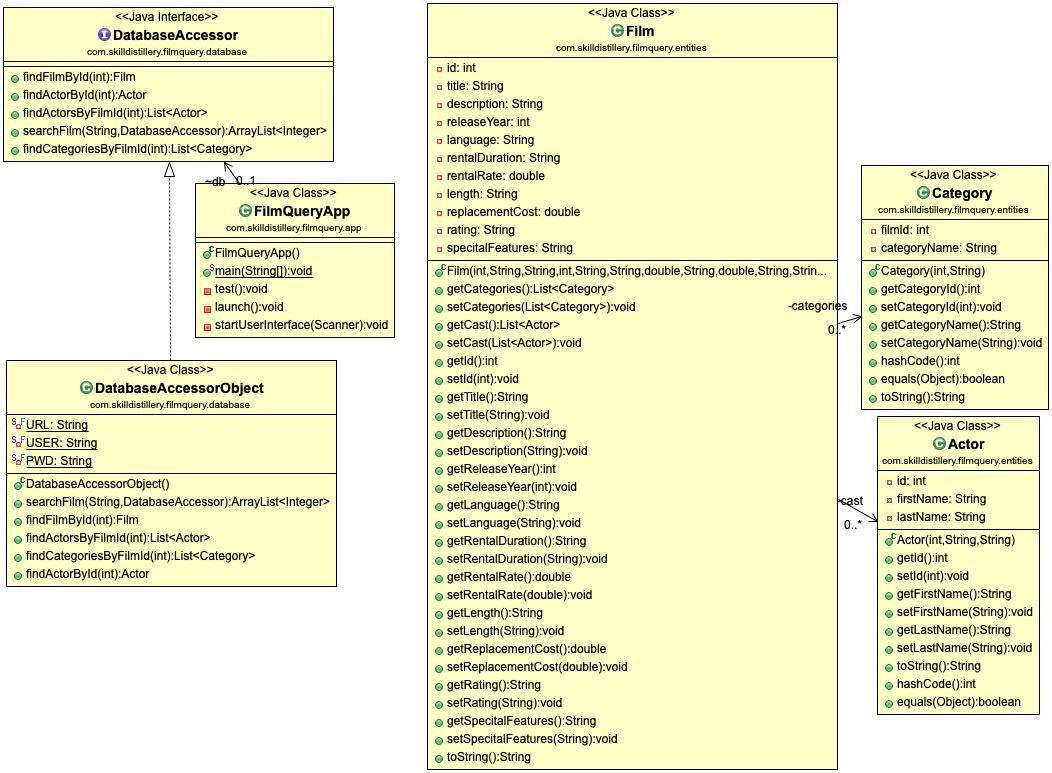
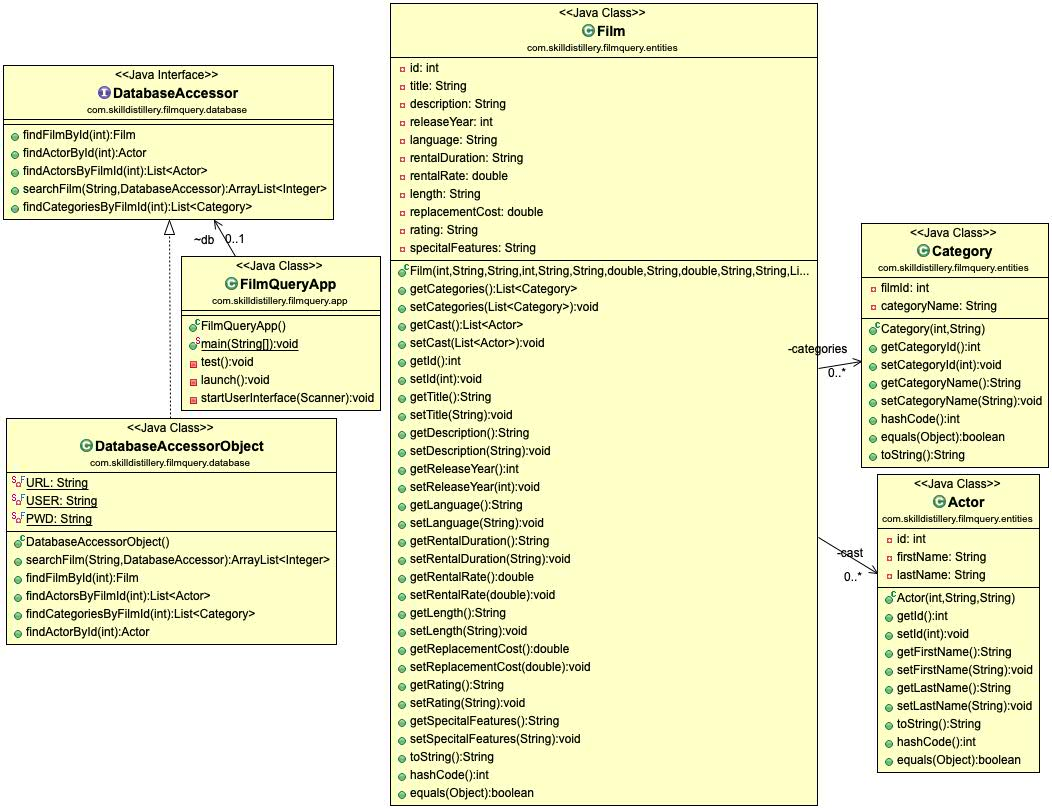
Added hashcode and equals to classes, updated UML

diff --git a/src/com/skilldistillery/filmquery/entities/Film.java b/src/com/skilldistillery/filmquery/entities/Film.java
@@ -179,4 +179,96 @@ public class Film {
 		return sb.toString();
 	}
 
+
+
+	@Override
+	public int hashCode() {
+		final int prime = 31;
+		int result = 1;
+		result = prime * result + ((cast == null) ? 0 : cast.hashCode());
+		result = prime * result + ((categories == null) ? 0 : categories.hashCode());
+		result = prime * result + ((description == null) ? 0 : description.hashCode());
+		result = prime * result + id;
+		result = prime * result + ((language == null) ? 0 : language.hashCode());
+		result = prime * result + ((length == null) ? 0 : length.hashCode());
+		result = prime * result + ((rating == null) ? 0 : rating.hashCode());
+		result = prime * result + releaseYear;
+		result = prime * result + ((rentalDuration == null) ? 0 : rentalDuration.hashCode());
+		long temp;
+		temp = Double.doubleToLongBits(rentalRate);
+		result = prime * result + (int) (temp ^ (temp >>> 32));
+		temp = Double.doubleToLongBits(replacementCost);
+		result = prime * result + (int) (temp ^ (temp >>> 32));
+		result = prime * result + ((specitalFeatures == null) ? 0 : specitalFeatures.hashCode());
+		result = prime * result + ((title == null) ? 0 : title.hashCode());
+		return result;
+	}
+
+
+
+	@Override
+	public boolean equals(Object obj) {
+		if (this == obj)
+			return true;
+		if (obj == null)
+			return false;
+		if (getClass() != obj.getClass())
+			return false;
+		Film other = (Film) obj;
+		if (cast == null) {
+			if (other.cast != null)
+				return false;
+		} else if (!cast.equals(other.cast))
+			return false;
+		if (categories == null) {
+			if (other.categories != null)
+				return false;
+		} else if (!categories.equals(other.categories))
+			return false;
+		if (description == null) {
+			if (other.description != null)
+				return false;
+		} else if (!description.equals(other.description))
+			return false;
+		if (id != other.id)
+			return false;
+		if (language == null) {
+			if (other.language != null)
+				return false;
+		} else if (!language.equals(other.language))
+			return false;
+		if (length == null) {
+			if (other.length != null)
+				return false;
+		} else if (!length.equals(other.length))
+			return false;
+		if (rating == null) {
+			if (other.rating != null)
+				return false;
+		} else if (!rating.equals(other.rating))
+			return false;
+		if (releaseYear != other.releaseYear)
+			return false;
+		if (rentalDuration == null) {
+			if (other.rentalDuration != null)
+				return false;
+		} else if (!rentalDuration.equals(other.rentalDuration))
+			return false;
+		if (Double.doubleToLongBits(rentalRate) != Double.doubleToLongBits(other.rentalRate))
+			return false;
+		if (Double.doubleToLongBits(replacementCost) != Double.doubleToLongBits(other.replacementCost))
+			return false;
+		if (specitalFeatures == null) {
+			if (other.specitalFeatures != null)
+				return false;
+		} else if (!specitalFeatures.equals(other.specitalFeatures))
+			return false;
+		if (title == null) {
+			if (other.title != null)
+				return false;
+		} else if (!title.equals(other.title))
+			return false;
+		return true;
+	}
+
 }
